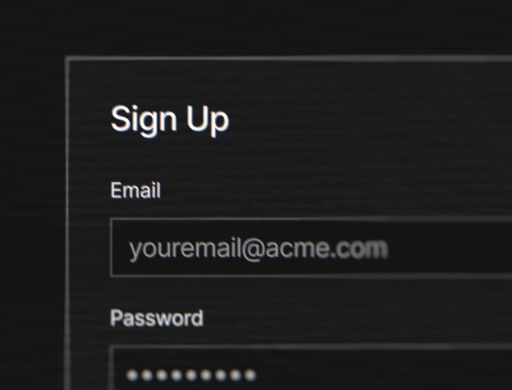
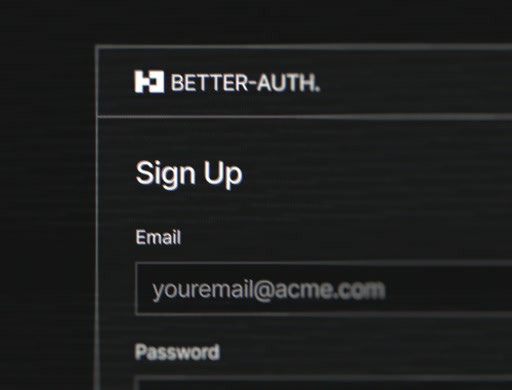
chore: update videos, add link

diff --git a/src/components/pages/home/hero/hero-services.jsx b/src/components/pages/home/hero/hero-services.jsx
@@ -5,9 +5,10 @@ import PropTypes from 'prop-types';
 import { useCallback, useEffect, useRef, useState } from 'react';
 import { useInView } from 'react-intersection-observer';
 
+import Link from 'components/shared/link';
 import { cn } from 'utils/cn';
 
-const VIDEO_VERSION = '20260616';
+const VIDEO_VERSION = '20260619';
 const SLIDER_VIEWPORT_QUERY = '(max-width: 63.9375rem)';
 const COMPACT_SLIDER_VIEWPORT_QUERY = '(max-width: 33.6875rem)';
 const VIDEO_SWITCH_DELAY_MS = 20;
@@ -340,7 +341,7 @@ const HeroServices = ({ items }) => {
       className="grid grid-cols-5 grid-rows-[auto_auto] gap-x-16 gap-y-8 2xl:gap-x-6 xl:gap-x-6 xl:gap-y-6 lg:-mx-5 lg:no-scrollbars lg:flex lg:snap-x lg:snap-mandatory lg:scroll-px-5 lg:gap-x-8 lg:gap-y-0 lg:overflow-x-auto lg:px-5 md:gap-x-6"
       ref={setListRef}
     >
-      {items.map(({ title, description, videoBase, aspectRatio, width, height }, index) => {
+      {items.map(({ title, description, url, videoBase, aspectRatio, width, height }, index) => {
         const activeIndex = hoveredIndex ?? (isAutoPlayInView ? autoPlayIndex : null);
         const isActive = activeIndex === index;
 
@@ -361,6 +362,20 @@ const HeroServices = ({ items }) => {
           >
             <p className="block max-w-sm text-base tracking-extra-tight text-pretty text-gray-new-60 xl:text-sm/normal lg:text-base">
               <span className="font-semibold text-white">{title}.</span> {description}
+              {url && (
+                <>
+                  {' '}
+                  <Link
+                    className="group/link inline-flex items-baseline text-gray-new-80 transition-colors duration-200 hover:text-gray-new-90"
+                    to={url}
+                    icon="external"
+                  >
+                    <span className="border-b border-dashed border-white/40 transition-colors duration-200 group-hover/link:border-white/60">
+                      Early access
+                    </span>
+                  </Link>
+                </>
+              )}
             </p>
             <span
               className={cn(
@@ -395,6 +410,7 @@ HeroServices.propTypes = {
     PropTypes.shape({
       title: PropTypes.string.isRequired,
       description: PropTypes.string.isRequired,
+      url: PropTypes.string,
       videoBase: PropTypes.string.isRequired,
       aspectRatio: PropTypes.string.isRequired,
       width: PropTypes.number.isRequired,

diff --git a/src/components/pages/home/hero/hero.jsx b/src/components/pages/home/hero/hero.jsx
@@ -35,15 +35,16 @@ export const heroServiceItems = [
   },
   {
     title: 'Authentication',
-    description: 'Managed auth with users and sessions stored in Postgres.',
+    description: 'Managed Better-Auth with users and sessions stored in Postgres.',
     videoBase: 'authentication',
     aspectRatio: 'aspect-512/390',
     width: 512,
     height: 390,
   },
   {
-    title: 'Compute',
-    description: 'Functions without timeouts running close to your database.',
+    title: 'Functions',
+    description: 'Long-running serverless compute, close to your database.',
+    url: '/docs/introduction/roadmap#now-shipping-neon-is-a-complete-backend-platform',
     videoBase: 'compute',
     aspectRatio: 'aspect-512/308',
     width: 512,
@@ -52,6 +53,7 @@ export const heroServiceItems = [
   {
     title: 'Storage',
     description: 'S3-compatible object storage that branches with your projects.',
+    url: '/docs/introduction/roadmap#now-shipping-neon-is-a-complete-backend-platform',
     videoBase: 'storage',
     aspectRatio: 'aspect-512/696',
     width: 512,
@@ -59,7 +61,8 @@ export const heroServiceItems = [
   },
   {
     title: 'AI Gateway',
-    description: 'One API for all frontier & open-source models, powered by Databricks.',
+    description: 'Access frontier and open-source models through a single API.',
+    url: '/docs/introduction/roadmap#now-shipping-neon-is-a-complete-backend-platform',
     videoBase: 'ai-gateway',
     aspectRatio: 'aspect-512/226',
     width: 512,